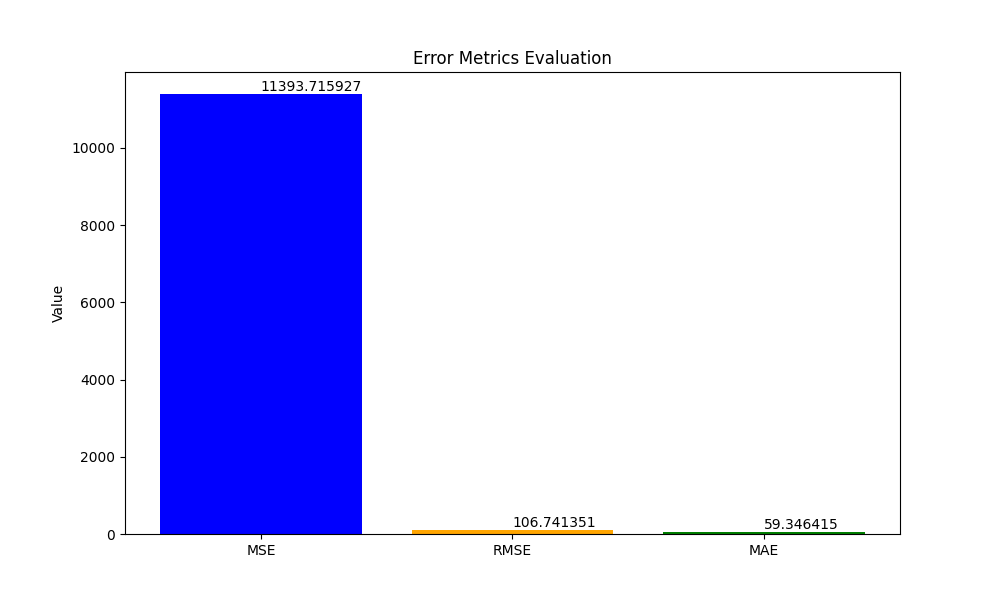
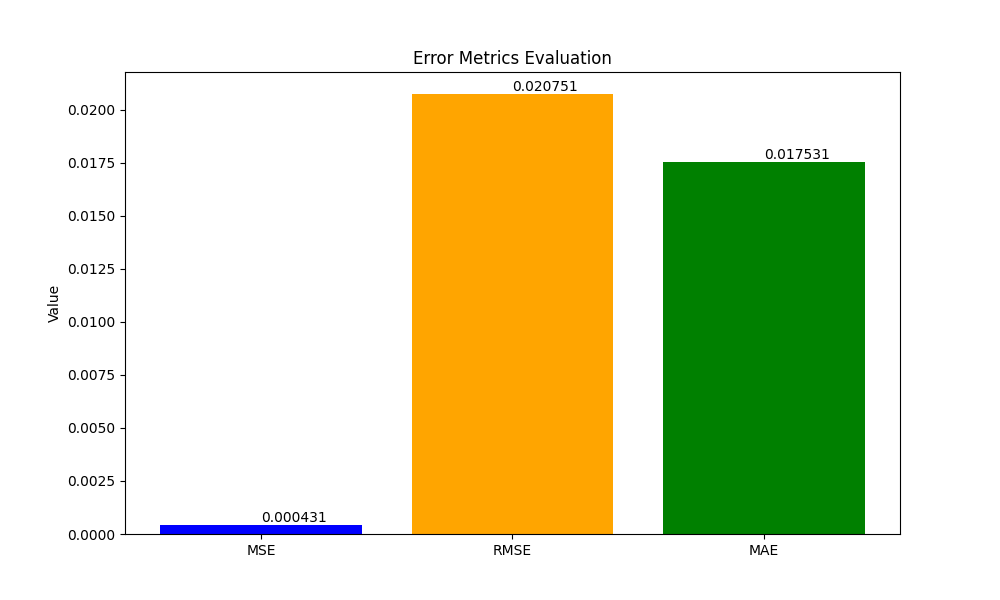
Update: Migrasi ke PyTorch GPU dan optimasi model trajectory

diff --git a/train.py b/train.py
@@ -1,9 +1,19 @@
 import pandas as pd
 import numpy as np
 import os
+import joblib
+import torch
+import torch.nn as nn
+import torch.optim as optim
+from torch.utils.data import TensorDataset, DataLoader
 from sklearn.preprocessing import MinMaxScaler
-from keras.models import Sequential
-from keras.layers import LSTM, Dense, Dropout
+
+# --- CEK GPU ---
+device = torch.device("cuda" if torch.cuda.is_available() else "cpu")
+print(f"Menggunakan Device: {device}")
+if torch.cuda.is_available():
+    print(f"GPU Detected: {torch.cuda.get_device_name(0)}")
+# ----------------
 
 dataset_path = r'C:\Users\Pavilion\Documents\Tugas\Semester 4\RTI\Artikel\Dataset\annotations\bookstore\video0\annotations.txt'
 
@@ -16,6 +26,9 @@ df = df[['frame', 'track_id', 'x', 'y']].sort_values(by=['track_id', 'frame'])
 
 scaler = MinMaxScaler()
 data_scaled = scaler.fit_transform(df[['x', 'y']].values)
+
+scaler_save_path = r'C:\Users\Pavilion\Documents\Tugas\Semester 4\RTI\Artikel\scaler.pkl'
+joblib.dump(scaler, scaler_save_path)
 
 def create_sequences(data, seq_length):
     X, y = [], []
@@ -31,21 +44,68 @@ split = int(0.8 * len(X))
 X_train, X_test = X[:split], X[split:]
 y_train, y_test = y[:split], y[split:]
 
-model = Sequential([
-    LSTM(128, input_shape=(SEQ_LENGTH, 2), return_sequences=True),
-    Dropout(0.2),
-    LSTM(64),
-    Dropout(0.2),
-    Dense(32, activation='relu'),
-    Dense(2)
-])
+# Konversi ke PyTorch Tensors
+X_train_t = torch.tensor(X_train, dtype=torch.float32)
+y_train_t = torch.tensor(y_train, dtype=torch.float32)
+X_test_t = torch.tensor(X_test, dtype=torch.float32).to(device)
+y_test_t = torch.tensor(y_test, dtype=torch.float32).to(device)
 
-model.compile(optimizer='adam', loss='mse')
+train_dataset = TensorDataset(X_train_t, y_train_t)
+train_loader = DataLoader(train_dataset, batch_size=128, shuffle=False)
 
-print("Memulai proses pelatihan model (Urutan Tetap)...")
-# shuffle=False sangat penting untuk data time-series!
-model.fit(X_train, y_train, epochs=30, batch_size=64, validation_data=(X_test, y_test), shuffle=False)
+# Definisi Model LSTM di PyTorch
+class LSTMModel(nn.Module):
+    def __init__(self):
+        super(LSTMModel, self).__init__()
+        self.lstm1 = nn.LSTM(input_size=2, hidden_size=128, batch_first=True)
+        self.dropout1 = nn.Dropout(0.2)
+        self.lstm2 = nn.LSTM(input_size=128, hidden_size=64, batch_first=True)
+        self.dropout2 = nn.Dropout(0.2)
+        self.fc1 = nn.Linear(64, 32)
+        self.relu = nn.ReLU()
+        self.fc2 = nn.Linear(32, 2)
 
-model_name = 'model_prediksi_rintangan.h5'
-model.save(model_name)
+    def forward(self, x):
+        x, _ = self.lstm1(x)
+        x = self.dropout1(x)
+        _, (hn, _) = self.lstm2(x)
+        x = hn[-1] # Mengambil hidden state terakhir (sama seperti return_sequences=False)
+        x = self.dropout2(x)
+        x = self.fc1(x)
+        x = self.relu(x)
+        x = self.fc2(x)
+        return x
+
+model = LSTMModel().to(device)
+criterion = nn.MSELoss()
+optimizer = optim.Adam(model.parameters())
+
+print("\nMemulai proses pelatihan model dengan PyTorch...")
+epochs = 30
+for epoch in range(epochs):
+    model.train()
+    train_loss = 0.0
+    for batch_X, batch_y in train_loader:
+        batch_X, batch_y = batch_X.to(device), batch_y.to(device)
+        
+        optimizer.zero_grad()
+        outputs = model(batch_X)
+        loss = criterion(outputs, batch_y)
+        loss.backward()
+        optimizer.step()
+        
+        train_loss += loss.item() * batch_X.size(0)
+        
+    train_loss /= len(train_loader.dataset)
+    
+    # Validation
+    model.eval()
+    with torch.no_grad():
+        val_outputs = model(X_test_t)
+        val_loss = criterion(val_outputs, y_test_t).item()
+        
+    print(f"Epoch {epoch+1}/{epochs} - loss: {train_loss:.6f} - val_loss: {val_loss:.6f}")
+
+model_name = r'C:\Users\Pavilion\Documents\Tugas\Semester 4\RTI\Artikel\model_prediksi_rintangan.pth'
+torch.save(model.state_dict(), model_name)
 print(f"\nSelesai! Model disimpan sebagai: {model_name}")

diff --git a/test_model.py b/test_model.py
@@ -2,19 +2,48 @@ import pandas as pd
 import numpy as np
 import matplotlib.pyplot as plt
 import os
-from keras.models import load_model
-from sklearn.preprocessing import MinMaxScaler
+import joblib
+import torch
+import torch.nn as nn
 from sklearn.metrics import mean_squared_error, mean_absolute_error
 
-model_path = r'C:\Users\Pavilion\Documents\Tugas\Semester 4\RTI\Artikel\model_prediksi_rintangan.h5'
+model_path = r'C:\Users\Pavilion\Documents\Tugas\Semester 4\RTI\Artikel\model_prediksi_rintangan.pth'
 dataset_path = r'C:\Users\Pavilion\Documents\Tugas\Semester 4\RTI\Artikel\Dataset\annotations\bookstore\video0\annotations.txt'
+scaler_path = r'C:\Users\Pavilion\Documents\Tugas\Semester 4\RTI\Artikel\scaler.pkl'
 output_dir = r'C:\Users\Pavilion\Documents\Tugas\Semester 4\RTI\Artikel'
 
-if not os.path.exists(model_path) or not os.path.exists(dataset_path):
+if not os.path.exists(model_path) or not os.path.exists(dataset_path) or not os.path.exists(scaler_path):
     print("ERROR: File tidak ditemukan!")
     exit()
 
-model = load_model(model_path, compile=False)
+class LSTMModel(nn.Module):
+    def __init__(self):
+        super(LSTMModel, self).__init__()
+        self.lstm1 = nn.LSTM(input_size=2, hidden_size=128, batch_first=True)
+        self.dropout1 = nn.Dropout(0.2)
+        self.lstm2 = nn.LSTM(input_size=128, hidden_size=64, batch_first=True)
+        self.dropout2 = nn.Dropout(0.2)
+        self.fc1 = nn.Linear(64, 32)
+        self.relu = nn.ReLU()
+        self.fc2 = nn.Linear(32, 2)
+
+    def forward(self, x):
+        x, _ = self.lstm1(x)
+        x = self.dropout1(x)
+        _, (hn, _) = self.lstm2(x)
+        x = hn[-1] 
+        x = self.dropout2(x)
+        x = self.fc1(x)
+        x = self.relu(x)
+        x = self.fc2(x)
+        return x
+
+device = torch.device("cuda" if torch.cuda.is_available() else "cpu")
+model = LSTMModel().to(device)
+model.load_state_dict(torch.load(model_path, map_location=device, weights_only=True))
+model.eval()
+
+scaler = joblib.load(scaler_path)
 
 df = pd.read_csv(dataset_path, sep=' ', header=None, 
                  names=['track_id', 'xmin', 'ymin', 'xmax', 'ymax', 'frame', 'lost', 'occluded', 'generated', 'label'])
@@ -25,8 +54,7 @@ df['y'] = (df['ymin'] + df['ymax']) / 2
 target_id = 0
 df_single = df[df['track_id'] == target_id].sort_values(by='frame')
 
-scaler = MinMaxScaler()
-data_scaled = scaler.fit_transform(df_single[['x', 'y']].values)
+data_scaled = scaler.transform(df_single[['x', 'y']].values)
 
 SEQ_LENGTH = 10
 X_test, y_true = [], []
@@ -34,16 +62,18 @@ for i in range(len(data_scaled) - SEQ_LENGTH):
     X_test.append(data_scaled[i:i + SEQ_LENGTH])
     y_true.append(data_scaled[i + SEQ_LENGTH])
 
-X_test = np.array(X_test)
-y_true = np.array(y_true)
+X_test_t = torch.tensor(np.array(X_test), dtype=torch.float32).to(device)
+y_true_scaled = np.array(y_true)
 
-predictions = model.predict(X_test)
-predictions_orig = scaler.inverse_transform(predictions)
-actual_orig = scaler.inverse_transform(y_true)
+with torch.no_grad():
+    predictions_scaled = model(X_test_t).cpu().numpy()
 
-mse = mean_squared_error(actual_orig, predictions_orig)
+predictions_orig = scaler.inverse_transform(predictions_scaled)
+actual_orig = scaler.inverse_transform(y_true_scaled)
+
+mse = mean_squared_error(y_true_scaled, predictions_scaled)
 rmse = np.sqrt(mse)
-mae = mean_absolute_error(actual_orig, predictions_orig)
+mae = mean_absolute_error(y_true_scaled, predictions_scaled)
 
 plt.figure(figsize=(10, 6))
 plt.plot(actual_orig[-50:, 0], actual_orig[-50:, 1], 'g-', linewidth=2, label='Actual')
@@ -71,7 +101,7 @@ plt.figure(figsize=(10, 6))
 bars = plt.bar(metrics, values, color=['blue', 'orange', 'green'])
 for bar in bars:
     yval = bar.get_height()
-    plt.text(bar.get_x() + bar.get_width()/2, yval, round(yval, 6), va='bottom')
+    plt.text(bar.get_x() + bar.get_width()/2, yval, f'{yval:.6f}', va='bottom')
 plt.title('Error Metrics Evaluation')
 plt.ylabel('Value')
 plt.savefig(os.path.join(output_dir, 'metrik_error.png'))

diff --git a/gpu_check.py b/gpu_check.py
@@ -1,0 +1,18 @@
+import torch
+
+print("=====================================")
+# Mengecek apakah CUDA (GPU) tersedia
+cuda_available = torch.cuda.is_available()
+print(f"Apakah GPU tersedia untuk PyTorch? : {cuda_available}")
+
+if cuda_available:
+    # Mengambil nama GPU yang terdeteksi
+    gpu_name = torch.cuda.get_device_name(0)
+    print(f"Nama GPU yang terdeteksi       : {gpu_name}")
+    
+    # Menampilkan total VRAM GPU
+    total_memory = torch.cuda.get_device_properties(0).total_memory / (1024**3)
+    print(f"Total VRAM GPU                 : {total_memory:.2f} GB")
+else:
+    print("GPU tidak terdeteksi. PyTorch masih menggunakan CPU.")
+print("=====================================")